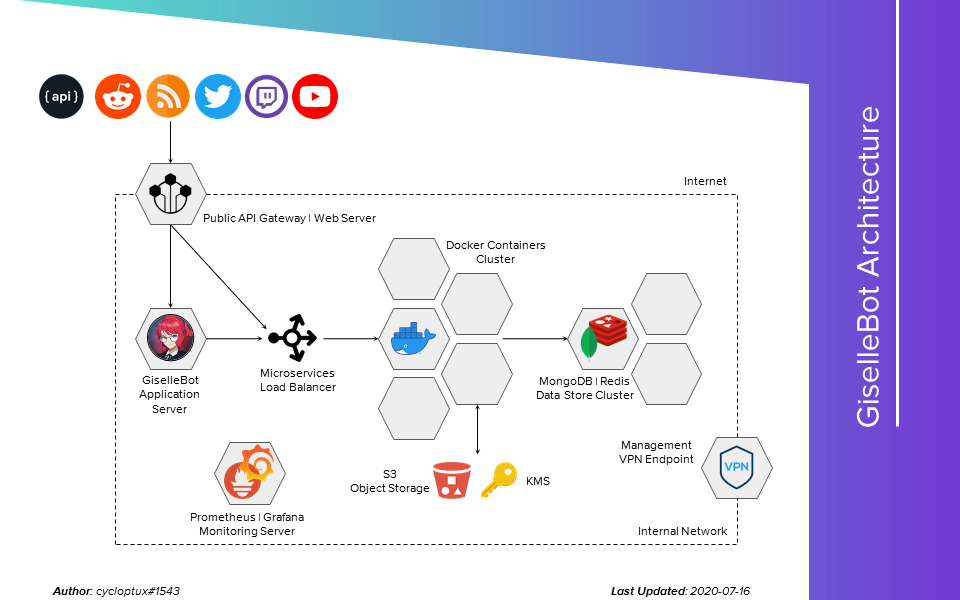
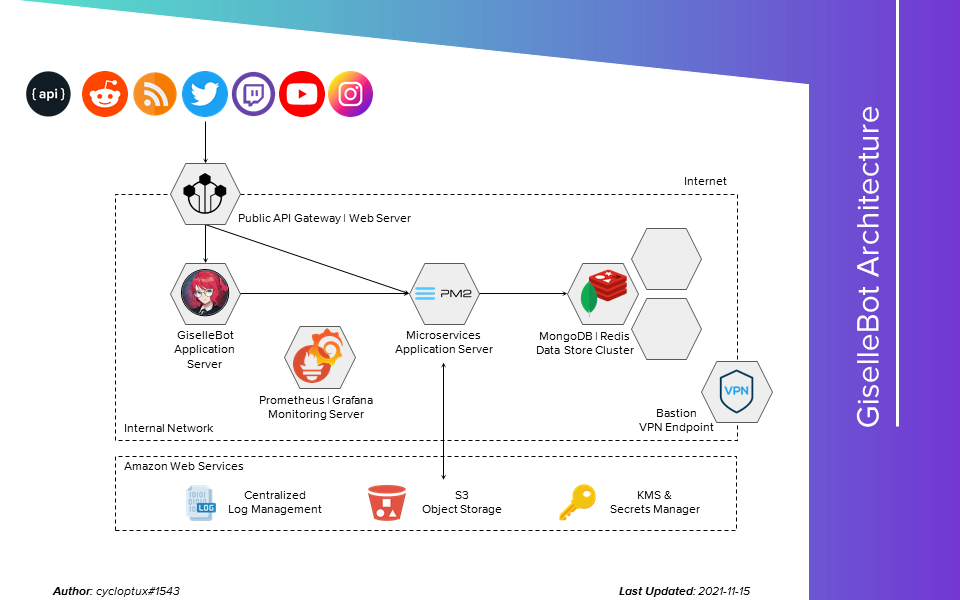
Updated.

diff --git a/docs/source/technical-and-security.rst b/docs/source/technical-and-security.rst
@@ -2,24 +2,22 @@
 Technical & Security Background
 *******************************
 
-Other than being a developer, I work as an IT Security Analyst for a big IT company (10K+ employees) in the Telecom & Media industry. This security background also drove a lot of choices during the bot development and deployment, which will be listed and described in this page.
-
-....
+*Last Revised: November 15, 2021*
 
 Core Engine
 ===========
 
-The bot is written in Node.js, and uses `Discord.js v12 <https://discord.js.org/>`_ as core Discord library.
+The bot is written in Node.js, and uses `Discord.js v13 <https://discord.js.org/>`_ as core Discord library.
 
-Here are some info and numbers about the bot (as of July 16th, 2020):
+Here are some info and numbers about the |bot_name|\ :
 
-* 99.9% uptime.
-* 26 self-developed RESTful microservices, supporting the bot in its operations.
-* ~34,000 lines of code for the main process, and ~10,000 extra lines of code for the custom microservices, excluding JSON/data files.
-* Present in ~1500 Discord servers.
-* Development started in September, 2017, making GiselleBot 3 years old.
+* 99.85% uptime.
+* 28 self-developed RESTful microservices, supporting the bot in its operations.
+* ~90,000 lines of code.
+* Present in ~10,000 Discord servers, reaching ~7.8M users.
+* Development started in September, 2017.
 * GiselleBot turned from being a private bot into a public bot in March, 2018.
-* Since its launch, GiselleBot has handled over 178,000 successful commands, with an average of 205 successful commands per day.
+* Since December, 2019, GiselleBot has handled over 870,000 successful commands, with an average of ~1,200 commands per day.
 
 ....
 
@@ -31,26 +29,24 @@ Infrastructure
     :align: center
     :alt: GiselleBot High-Level Architecture
 
-The bot is hosted in a public cloud infrastructure (specifically, Amazon Web Services). The infrastructure is currently composed of 5 main components:
+The bot is hosted on GalaxyGate. The infrastructure is currently composed of 5 main components:
 
-* 1 Web Server, hosting the bot dashboard (work-in-progress), documentation website and the API gateway used to communicate with the bots from the external world.
+* 1 Web Server, hosting the documentation website and the API gateway used to communicate with the bot(s) from the external world.
 * 1 Application Server, hosting the bot itself.
+* 1 Application Server, hosting the supporting microservices.
 * 3 MongoDB machines, forming a high-availability Replica Set.
 * 3 Redis instances, forming a high-availability set managed through Redis Sentinel.
 
   * Redis is used a high performance in-memory cache for the most used DB queries.
   * The instances are hosted on the same servers that host MongoDB, but the Primary instance of each datastore is on different servers at any time.
 
-* 1 Container Platform, currently composed of a cluster of 5 server instances, hosting the supporting microservices.
 
-Other than the plain computing power, the cloud infrastructure offers a few other managed services used by the bot:
+Other than the plain computing power from GalaxyGate, some PaaS services are provided by Amazon Web Services:
 
-* An advanced L7 Load Balancer, used to balance the requests sent by the bot(s) to the additional microservices (running in a high-availability configuration).
 * Object Storage buckets, hosting the temporary (encrypted) files that are sent to end-users via a variety of commands.
+* A centralized log management system.
+* A Key Management System / Secrets Manager, storing the secret keys and API keys used by the bot. Private keys and/or credentials are never stored on the actual servers, they are fetched during the startup of each service.
 * A DNS managed service, hosting the public cycloptux.com and gisellebot.com domains, the short gisl.eu domain and the internal private domain.
-* A Key Management System, storing the secret keys and API keys used by the bot. Private keys and/or credentials are never stored on the actual servers, they are fetched during the startup of each service.
-* An IAM service, enabling the virtual servers to communicate with the cloud services without having to store credentials within the system itself.
-* An automatic build & deployment pipeline service, updating the documentation website as soon as a change is pushed to the `GitHub documentation repository <https://github.com/cycloptux/GiselleBot-Documentation>`_. The same pipeline service is used to build the Docker images for the RESTful microservices used on the Container Platform.
 
 ....
 
@@ -61,10 +57,10 @@ Regarding the security aspects of the bot, here's a list of features that have b
 
 Encryption in Transit
 ---------------------
-* Internal network communications between the web server, application server, microservices and DB/Cache server(s) only happen on a private network within the cloud infrastructure and never go through the internet.
+* Internal network communications between all infrastructure components only happen on a private network (VLAN) specifically instanced by the hosting provider, and never go through the internet.
 * Network connections between the application server, web server, microservices and DB machines are encrypted using SSL/TLS (specifically, TLS 1.1+) encryption, with 2-way forced validation of server and client certificates.
 * Network connections between the API gateway and the application server and microservices are encrypted using HTTPS (TLS 1.2+) encryption, with forced 2-way validation of server and client certificates.
-* The certificates used to encrypt data in transit are released by an internal Certificate Authority (which is powered off when not in use, to protect its keys). The certificates are signed by an intermediate CA which then points at the root CA, so that the root CA key is never used and the intermediate CA can be killed if compromised.
+* The certificates used to encrypt data in transit are released by an internal Certificate Authority (which is on a different hosting provider, and powered off when not in use, to protect its keys). The certificates are signed by an intermediate CA which then points at the root CA, so that the root CA key is never used and the intermediate CA can be killed if compromised.
 * The web server and API gateway are only exposed to the internet through HTTPS (HSTS). The web access itself is protected through `Cloudflare <https://www.cloudflare.com/>`_. The network connection between Cloudflare and the actual web server is also protected by strict HTTPS using automatically renewed certificates signed by `Let's Encrypt <https://letsencrypt.org/>`_.
 
 Encryption at Rest
@@ -75,23 +71,22 @@ Encryption at Rest
   
   * The password is purposefully never logged into the bot internal logs and is only known to the end user.
   * As an extra layer of security, users can decide to delete the bot's message so that the password is also removed from Discord itself. Refer to :ref:`deletedm` for more info.
-  * The retention for these files is currently set to 30 days. Lowering the retention to 7 or 14 days is under consideration.
+  * The retention for these files is currently set to 30 days.
  
 
 Authentication, Authorization, Auditing
 ---------------------------------------
-* SSH access to the infrastructure is only available from within the internal network. The internal network can be accessed through a hardened VPN endpoint.
+* SSH access to the infrastructure is only available from within the internal network. The internal network can be accessed through a hardened bastion VPN endpoint.
 * SSH access to the virtual servers is protected via private keys and, in some cases, multi-factor authentication.
-* Authorization between the virtual servers and the external cloud services is managed by IAM roles on the infrastructure-level so that credentials don't need to be stored on the servers.
 * Sensitive information needed by the microservices are either fetched from the KMS when the microservice starts, or passed through temporary environmental variables.
 * Every access and action is logged, both in the API gateway and in the application server. All bot commands are logged.
 * The API offered by the bots are not directly accessed from the internet. The API gateway acts as a bridge, and implements a fully fledged authentication and authorization workflow used to create and distribute temporary tokens to the end users. Further authorization checks are applied on the specific API calls to restrict "authorized" users from requesting data that doesn't belong to them.
 
 Infrastructure Security
 -----------------------
-* Each host is protected by an infrastructure firewall **and** a local firewall, making sure that only the required ports are open.
+* Each host is protected by a local firewall, making sure that only the required ports are open.
 * The SSH service is not exposed to the internet.
-* Cloud infrastructure management portals are protected by strong passwords and multi-factor authentication.
+* Infrastructure management portals are protected by strong passwords and multi-factor authentication.
 * Encryption keys, secret access keys, secret tokens, credentials, etc. are **never** stored into local drives. An external Key Management System (KMS) is used to fetch secret keys at runtime.
 * The database is backed up every 12 hours, and the retention policy for backup files is set to keep backups on a highly available Object Storage repository for at least 30 days.
-* The source code for the bot, and all of its related dependencies, is stored in private Git-based repositories, and the configuration files are also saved every 12 hours.
+* The source code for the bot, and all of its related dependencies, is stored in private Git-based repositories.
